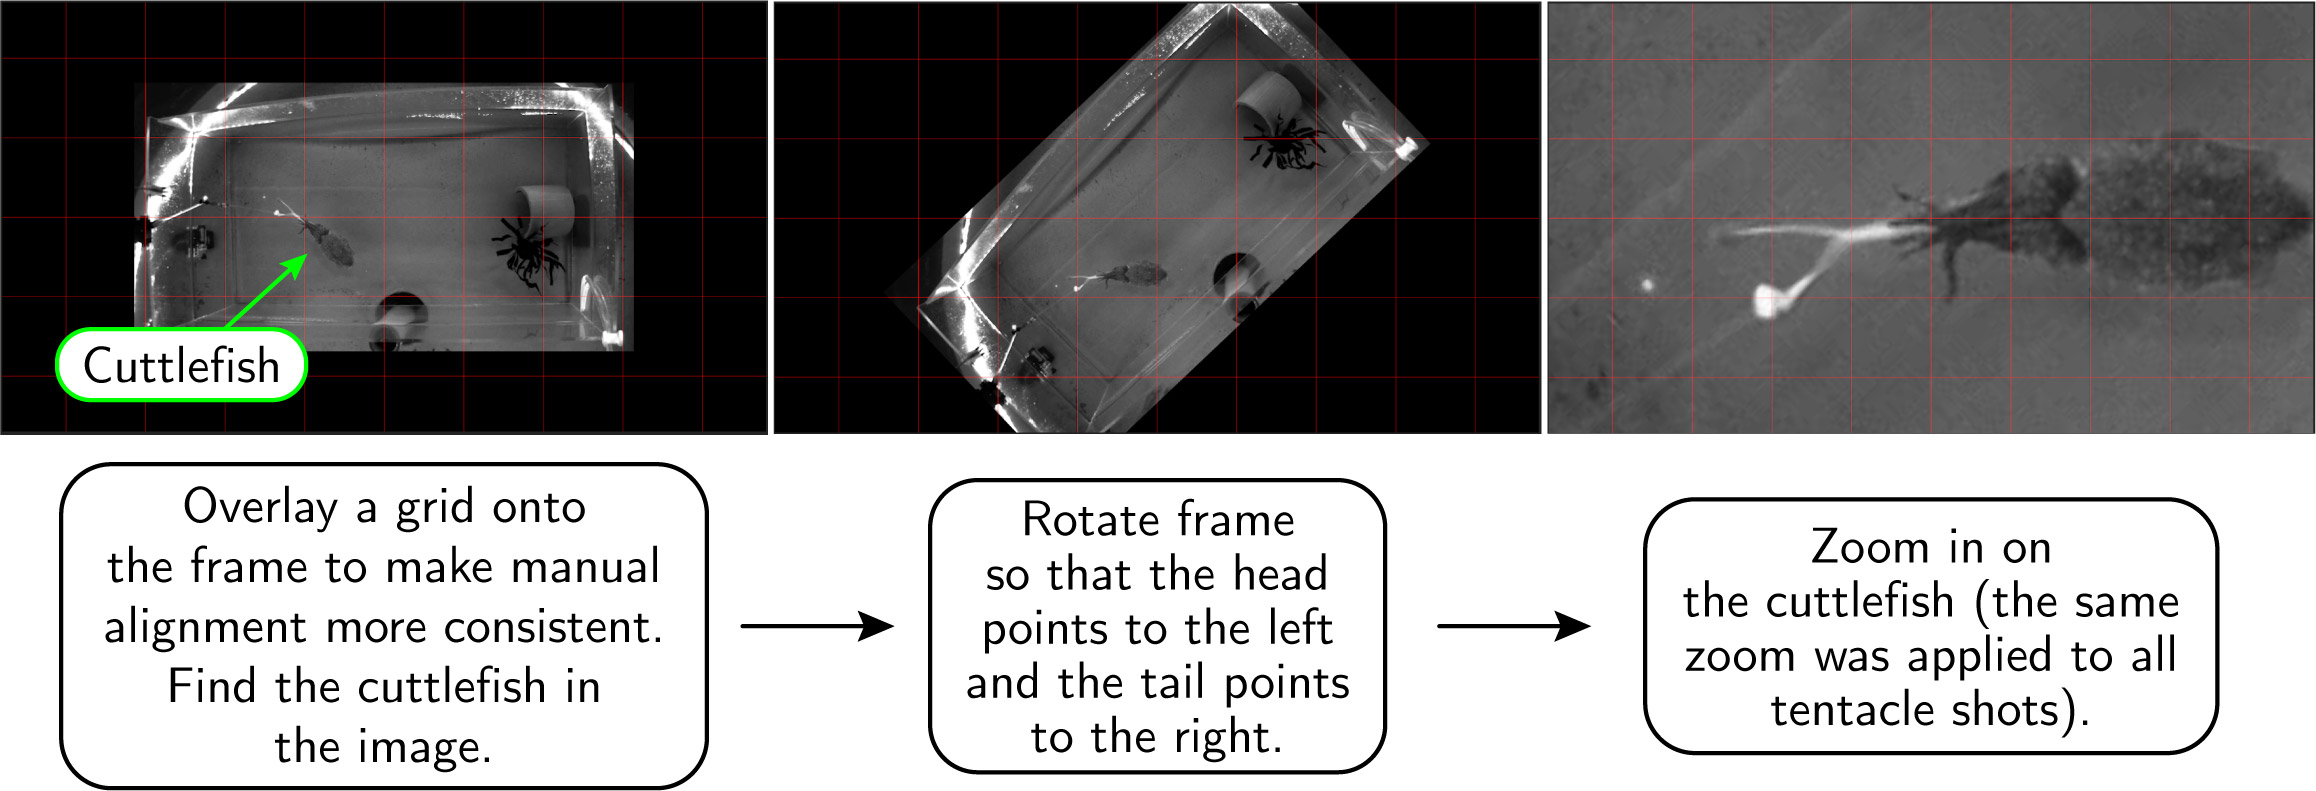
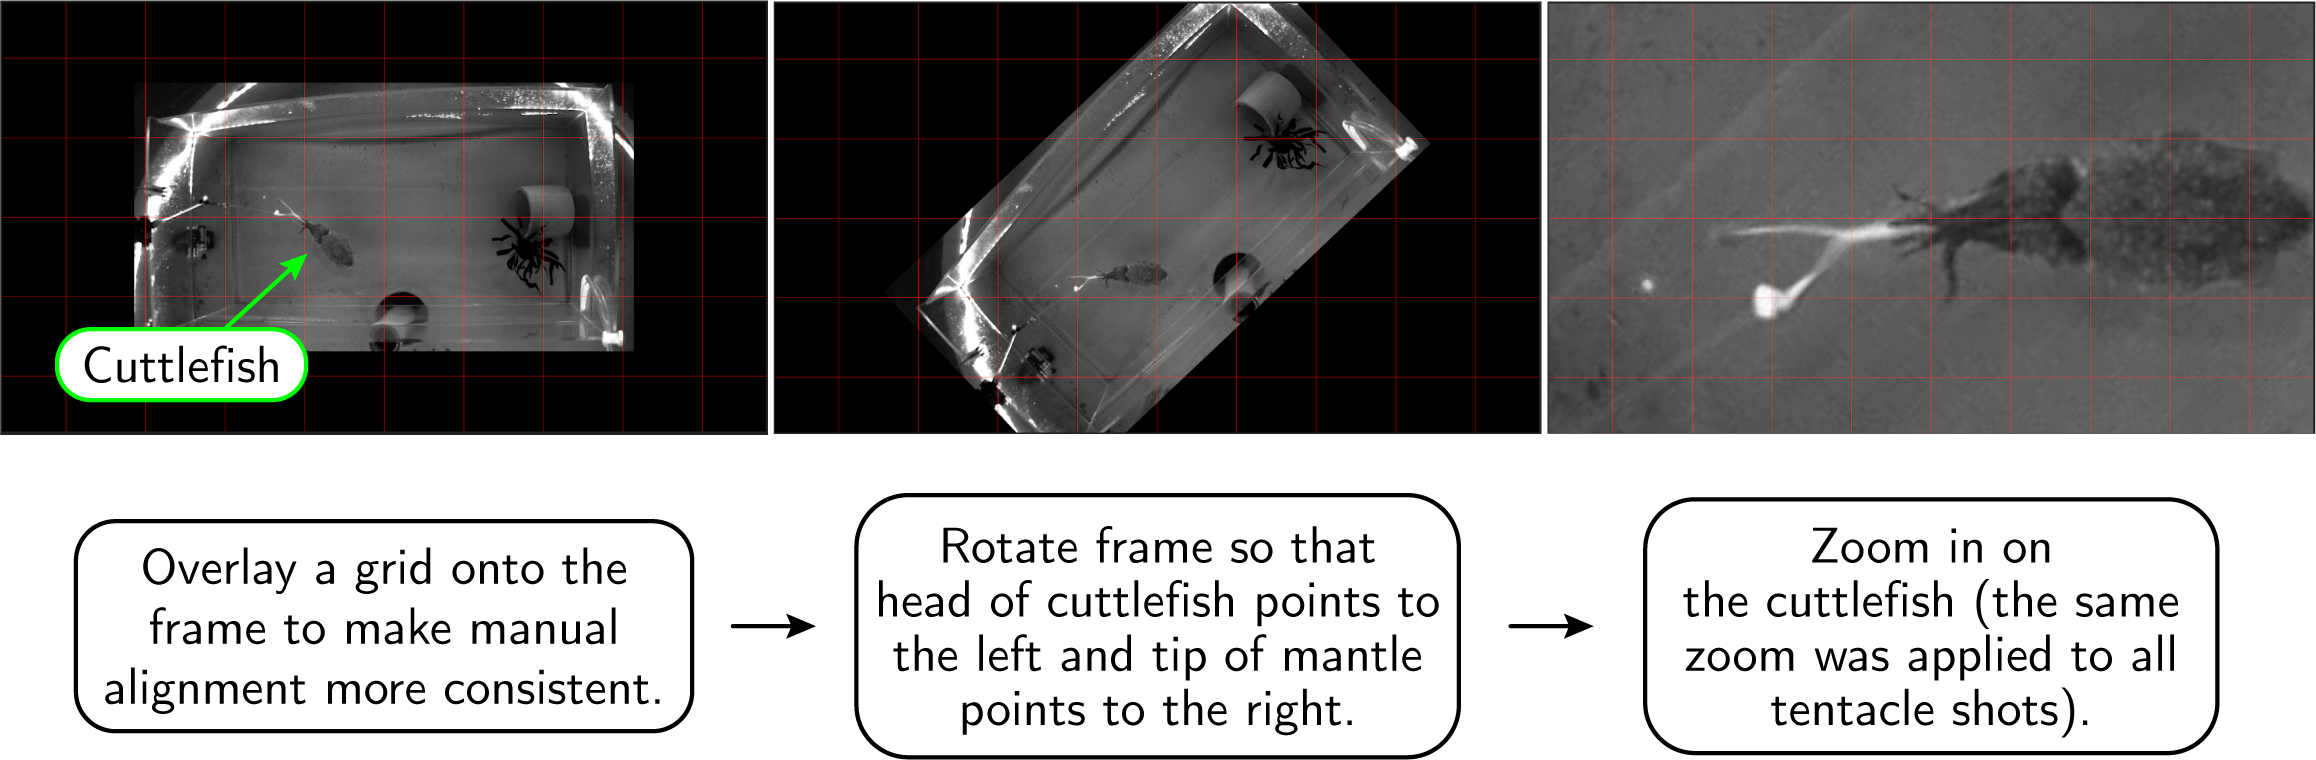
updated cuttle shuttle paper figs and supp materials

diff --git a/_open-lab-notebook/03-cuttlefish-hunting-behavior-figs-and-tables.md b/_open-lab-notebook/03-cuttlefish-hunting-behavior-figs-and-tables.md
@@ -20,15 +20,17 @@ Figures and tables for the paper "An experimental method for evoking and charact
 
 {% include figure image_path="/assets/images/openLabNotebook/CuttleShuttle/Paper_Diagram_CamouSignalingSequencesAssociatedWPreyCapture.jpg" alt="Camouflage and signaling sequences associated with prey capture by cuttlefish" caption="**Figure 1: Camouflage and signaling sequences associated with prey capture by cuttlefish.** Tentative framework for the sequence of body patterning during prey capture (see also [7]). This study focuses on the 3 seconds immediately before and after prey capture, circled in red in this diagram. *Illustration: Jennifer Deutscher.*" %}
 
-{% include figure image_path="/assets/images/openLabNotebook/CuttleShuttle/Paper_CuttleShuttle_Sketchup_BW.jpg" alt="Experimental tank setup" caption="**Figure 2: Experimental tank setup.** An acrylic box (43 x 43 x 81 cm, open top) with “robotic prey” (shrimp piece on a plastic skewer moved by an Arduino-controlled servo motor) on the left, perched on top of the experimental tank wall, and “home base” on the right, where cuttlefish can hide during acclimation. An overhead camera (not shown) provided a top-down, monochrome recording of the setup, while an underwater camera (also not shown) recorded from another angle in color." %}
+{% include figure image_path="/assets/images/openLabNotebook/CuttleShuttle/Paper_CuttleShuttle_Sketchup_BW.jpg" alt="Experimental tank setup" caption="**Figure 2: Experimental tank setup (not to scale).** An acrylic box (43 x 43 x 81 cm, open top) with “robotic prey” (shrimp piece on a plastic skewer moved by an Arduino-controlled servo motor) on the left, perched on top of the experimental tank wall, and “starting point shelter” on the right, where cuttlefish can hide during acclimation. An overhead camera (not shown) provided a top-down, monochrome recording of the setup, while an underwater camera (also not shown) recorded from another angle in color." %}
 
-{% include figure image_path="/assets/images/openLabNotebook/CuttleShuttle/Paper_CuttleShuttle_GranularityAnalysis_noTitle.jpg" alt="Example screenshot of mantle body pattern after filtering for analysis" caption="**Figure 3: Example screenshot of mantle body pattern after filtering for analysis.** A screenshot of the mantle body pattern (+1000ms after TGB) is shown after filtering through the 4 frequency bands used by Process Cuttle Python (modified from [21]) to analyze the TSP." %}
+{% include figure image_path="/assets/images/openLabNotebook/CuttleShuttle/Paper_CuttleShuttle_GranularityAnalysis_noTitle.jpg" alt="Example screenshot of mantle body pattern after filtering for analysis" caption="**Figure 3: Example screenshot of mantle body pattern after filtering for analysis.** A screenshot of the mantle body pattern (+1000ms after TGB) is shown after filtering through the 4 frequency bands used by _Process Cuttle Python_ (modified from [21]) to analyze the TSP." %}
 
 {% include figure image_path="/assets/images/openLabNotebook/CuttleShuttle/CuttleShuttle_CatchVMiss_Ethogram_noTitle.jpg" alt="Ethogram of body pattern changes during hunting behavior in captive Sepia officinalis" caption="**Figure 4: Ethogram of body pattern changes during hunting behavior in captive Sepia officinalis** (exemplary screenshots from overhead video). The top row shows body pattern changes (TSP) during a successful attack, while the bottom row shows body pattern changes during an unsuccessful attack. All images are frames from manually cropped and aligned video clips of tentacle shots made by the same animal. Red boxes indicate ROI described in Methods section 'Video analyses – characterizing the TSP'." %}
 
-{% include figure image_path="/assets/images/openLabNotebook/CuttleShuttle/Paper_CuttleShuttle_CatchVMiss_ShuffleTest_Granularity_noTitles.jpg" alt="Quantifying TSP dynamics with 'granularity' analysis" caption="**Figure 5:** Quantifying TSP dynamics with 'granularity' analysis. **A. Mean 'granularity' of body pattern during tentacle shots** in frequency band 2 (measured by Process Cuttle Python, modified from [21]), from 3 seconds before TGB to 3 seconds after TGB, normalized and pooled across all subjects. **B. A shuffle test (N=20,000 shuffles) of the difference of means (catch vs. miss)** show significance at 470ms after TGB. See Supp. Figs. for granularity analysis and shuffle test plots at all spatial frequencies analyzed in this study." %}
+{% include figure image_path="/assets/images/openLabNotebook/CuttleShuttle/Paper_CuttleShuttle_CatchVMiss_ShuffleTest_Granularity_noTitles.jpg" alt="Quantifying the dynamics of TSPs with "granularity" analysis, frequency band 2" caption="**Figure 5:** Quantifying the dynamics of TSPs with "granularity" analysis, frequency band 2. **A. Mean “granularity” of body pattern during tentacle shots** in frequency band 2 (measured by Process Cuttle Python, modified from [21]), from 3 seconds before TGB to 3 seconds after TGB, normalized and pooled across all subjects. **B. A shuffle test (N=20,000 shuffles) of the difference of means (catch vs. miss)** show significance at 470ms after TGB. See Figure S8 for granularity analysis and shuffle test plots at all spatial frequencies." %}
 
-{% include figure image_path="/assets/images/openLabNotebook/CuttleShuttle/Paper_CuttleShuttle_CatchVMiss_Schematic.jpg" alt="Schematic of body pattern changes during prey capture, shown in 4 stages" caption="**Figure 6:** Schematic of body pattern changes during prey capture, shown in 4 stages. **1. TGB minus 1000 milliseconds:** Animal is typically transitioning from the positioning phase to the seizure phase of the hunt (see [8]), and tentacles are just beginning to show from within the arms. **2. TGB (Tentacles Go Ballistic):** This is the moment when tentacles are ballistically released towards the prey or food item. **3. TGB plus 400 milliseconds (Tentacle Shot Pattern appears):** By 400 milliseconds after TGB, the 'granularity' of the deployed body pattern has increased significantly as compared to the 'granularity' of the body pattern deployed during baseline (TGB minus 3000 milliseconds to TGB minus 2000 milliseconds). **4a. TGB plus 1000 milliseconds, Catch (TSP persists):** When the hunt is successful, the 'granularity' of the deployed body pattern remains high. **4b. TGB plus 1000 milliseconds, Miss (TSP disappears):** When the hunt is unsuccessful, the 'granularity' of the deployed body pattern returns to baseline. *Illustration: Danbee Kim.*" %}
+{% include figure image_path="/assets/images/openLabNotebook/CuttleShuttle/Paper_CuttleShuttle_CatchVMiss_Schematic.jpg" alt="Schematic of body pattern changes during prey capture, shown in 4 stages" caption="**Figure 6:** Schematic of body pattern changes during prey capture, shown in 4 stages. **1. TGB minus 1000 milliseconds:** Animal is typically transitioning from the positioning phase to the seizure phase of the hunt (see [8]), and tentacles are just beginning to show from within the arms. **2. TGB (Tentacles Go Ballistic):** This is the moment when tentacles are ballistically released towards the prey or food item. **3. TGB plus 400 milliseconds (Tentacle Shot Patterns appear):** By 400 milliseconds after TGB, the “granularity” of the deployed body pattern has increased significantly as compared to the “granularity” of the body pattern deployed during baseline (TGB minus 3000 milliseconds to TGB minus 2000 milliseconds). **4a. TGB plus 1000 milliseconds, Catch (TSPs persist):** When the hunt is successful, the “granularity” of the deployed body pattern remains high. See Fig. 7 for all examples of TSPs in the dataset. **4b. TGB plus 1000 milliseconds, Miss (TSPs disappear):** When the hunt is unsuccessful, the “granularity” of the deployed body pattern returns to baseline. *Illustration: Danbee Kim.*" %}
+
+{% include figure image_path="/assets/images/openLabNotebook/CuttleShuttle/frame194_all.jpg" alt="" caption="**Figure 7: Examples of Tentacle Shot Patterns.** This composite image shows screenshots of all tentacle shots by all animals at 233.5 milliseconds after TGB, the timepoint when TSPs are most strongly displayed, regardless of whether the animal caught or missed the prey." %}
 
 ## Tables
 

diff --git a/_open-lab-notebook/03-cuttlefish-hunting-behavior-supp-materials.md b/_open-lab-notebook/03-cuttlefish-hunting-behavior-supp-materials.md
@@ -16,11 +16,31 @@ header:
 
 Supplemental materials included in the paper "An experimental method for evoking and characterizing dynamic color patterning of cuttlefish during prey capture" (in prep):
 
+## Supplemental Text
+
+Movement phases of the robotic prey:
+
+- Natural: Skewer arm rotates clockwise into the water until it is fully submerged and approximately perpendicular to the surface of the water ("90 deg down"), pauses, then "wiggles" 3 times. A single "wiggle" consists of moving 10 deg clockwise (CW), then 10 deg counter-clockwise (CCW), then 10 deg CW again; or 10 deg CCW, then 10 deg CW, then 10 deg CCW again. In between each wiggle, the skewer arm paused for 3 seconds. After 3 wiggles, the skewer arm is moved back out of the water to the "start position."
+- Smooth: Skewer arm enters the water and travels smoothly through one full rotation back up to the start position. Each food offering alternates between CW and CCW rotations.
+- Predictable: Skewer arm begins to enter the water along a smooth CW or CCW rotation. If the skewer reaches "90 deg down" and pauses, the skewer exits the water back in the direction from which it came. If the skewer enters the water and does not pause, the skewer continues in the same direction to exit the water. The "robotic prey" was designed to randomly choose whether or not to pause during each trial of this stage.
+
 ## Supplemental Figures
 
-{% include figure image_path="/assets/images/openLabNotebook/CuttleShuttle/PaperFig_ExpTank.jpg" alt="Supplemental Figure 1: The Experimental Tank" caption="**Fig. S1: The Experimental tank, showing the hunting box, with hardware setup controlling the robotic prey, inside the circular holding tank lined with LED lighting, with overhead Point Grey FlyCap2 camera.** Photo by D. Kim; figure generated in Adobe Illustrator by D. Kim." %}
+{% include figure image_path="/assets/images/openLabNotebook/CuttleShuttle/PaperFig_ExpTank.jpg" alt="Figure S1: The experimental tank." caption="**Figure S1: The experimental tank.** The hunting box, with hardware setup controlling the robotic prey, inside the circular holding tank with LED lighting inside the holding tank and overhead Point Grey FlyCap2 camera." %}
 
-{% include figure image_path="/assets/images/openLabNotebook/CuttleShuttle/PaperFig_HuntingBox.jpg" alt="Supplemental Figure 2: Overhead view of the hunting box." caption="**Fig. S2: Overhead view of hunting box inside the experimental tank.** This image is a screenshot from the session videos recorded by the overhead PointGrey FlyCap2 camera. Figure generated in Adobe Illustrator by D. Kim." %}
+{% include figure image_path="/assets/images/openLabNotebook/CuttleShuttle/PaperFig_HuntingBox.jpg" alt="Figure S2: Overhead view of hunting box inside the holding tank." caption="**Figure S2: Overhead view of hunting box inside the holding tank.** This image is a screenshot from a session video recorded by the overhead Point Grey FlyCap2 camera." %}
+
+{% include figure image_path="/assets/images/openLabNotebook/CuttleShuttle/CuttleShuttle_AnalysisWorkflow.jpg" alt="Figure S3: TGB Videos, spatial alignment" caption="**Figure S3: TGB Videos, spatial alignment.** Example of the process of cropping and aligning a single frame of a Cuttle Shuttle hunting session video recording.  Manual alignment of all 'TGB videos' was done using Apple software Final Cut Pro and Adobe Premiere Pro by D. Kim." %}
+
+{% include figure image_path="/assets/images/openLabNotebook/CuttleShuttle/CuttleShuttle_TentacleShotsTemporalAlignment.jpg" alt="Figure S4: TGB Videos, temporal alignment" caption="**Figure S4: TGB Videos, temporal alignment.** Example of how the TGB videos were aligned temporally on the frame in which 'tentacles go ballistic' (TGB)." %}
+
+{% include figure image_path="/assets/images/openLabNotebook/CuttleShuttle/Prob_MomentsOfInterestSeq_TentacleShotsBeforeCatch_allAnimals.jpg" alt="Figure S5: Number of tentacle shots before a catch for all animals" caption="**Figure S5: Number of tentacle shots before a catch for all animals.** Summary plot showing the number of tentacle shots before a catch was successful; success frequency shown for all animals. Tentacle shots were annotated during data collection via Bonsai [15] and verified manually by re-watching overhead videos." %}
+
+{% include figure image_path="/assets/images/openLabNotebook/CuttleShuttle/CuttleShuttle_firstExitFromBaseline.jpg" alt="Figure S6: Descriptive plots showing “first exits” from baseline mean ± 3σ" caption="**Figure S6: Descriptive plots showing “first exits” from baseline mean ± 3σ.** These plots visualize when the 'granularity' of the mantle pattern during individual tentacle shots deviated significantly (>3 standard deviations) from the mean of the baseline period (as measured by _Process Cuttle Python_, modified from [21])." %}
+
+{% include figure image_path="/assets/images/openLabNotebook/CuttleShuttle/CuttleShuttle_TSPonset_boxplots.jpg" alt="Figure S7: Boxplots showing distribution and mean onset of TSPs" caption="**Figure S7: Boxplots showing distribution and mean onset of TSPs.** Visualization of data from Table 2." %}
+
+{% include figure image_path="/assets/images/openLabNotebook/CuttleShuttle/Paper_CuttleShuttle_SuppFig_CatchVMiss_ShuffleTest_Granularity_allFreqs.jpg" alt="Figure S8: Quantifying dynamics of TSPs with 'granularity' analysis, all frequency bands" caption="**Figure S8: Quantifying dynamics of TSPs with 'granularity' analysis, all frequency bands.** The left column shows the changes in mean 'granularity' of body pattern during tentacle shots (measured by Process Cuttle Python, modified from [21], in 4 different spatial frequency bands), from 3 seconds before TGB to 3 seconds after TGB, normalized and pooled across all subjects. The right column shows shuffle tests (N=20,000 shuffles) of the difference of means (catch vs. miss) in each frequency band, and a vertical dashed yellow line indicates when the difference becomes significant (p<0.05)." %}
 
 ## Experimental Protocol
 

diff --git a/_open-lab-notebook/03-cuttlefish-hunting-behavior.md b/_open-lab-notebook/03-cuttlefish-hunting-behavior.md
@@ -28,9 +28,9 @@ The following write-up of the project is currently being distilled into an acade
 
 ### Abstract
 
-Cuttlefish are active carnivores that possess a wide repertoire of body patterns that can be changed instantly for many types of camouflage and communication. The forms and functions of many body patterns are well known from ethological studies in the field and laboratory; yet one aspect has not been reported in detail: the rapid and brief change in body coloration (“Tentacle Shot Pattern,” or TSP) that always occurs with the ejection of two ballistic tentacles to strike live moving prey (“Tentacles Go Ballistic,” or TGB, moment). We designed and tested a mechanical device that presented prey in a controlled manner, taking advantage of a key stimulus for feeding: motion of the prey. High-speed video recordings show a rapid transition into TSP starting 114 milliseconds before TGB (N=114). TSP is then suppressed as early as 470-500 milliseconds after TGB (p<0.05) in unsuccessful hunts, while persisting for at least 3 seconds after TGB in successful hunts. A granularity analysis revealed significant differences in the large-scale high contrast body patterning present in TSP compared to the camouflage body pattern deployed beforehand. TSP is thought to be a form of secondary defense called deimatic displaying, meant to briefly startle predators while cuttlefish are distracted by striking prey. The main deimatic patterns deployed by cuttlefish during this study are best characterized as Acute Conflict Mottle and Acute Disruptive Pattern. The data and methodology presented here open opportunities for quantifying the rapid neural responses in this visual sensorimotor set of behaviors.
+Cuttlefish are active carnivores that possess a wide repertoire of body patterns that can be changed within milliseconds for many types of camouflage and communication. The forms and functions of many body patterns are well known from ethological studies in the field and laboratory. Yet one aspect has not been reported in detail: the category of rapid, brief and high-contrast changes in body coloration (“Tentacle Shot Patterns,” or TSPs) that always occur with the ejection of two ballistic tentacles to strike live moving prey (“Tentacles Go Ballistic,” or TGB, moment). We designed and tested a mechanical device that presented prey in a controlled manner, taking advantage of a key stimulus for feeding: motion of the prey. High-speed video recordings show a rapid transition into TSPs starting 114 milliseconds before TGB (N=114). TSPs are then suppressed as early as 470-500 milliseconds after TGB (p<0.05) in unsuccessful hunts, while persisting for at least 3 seconds after TGB in successful hunts. A granularity analysis revealed significant differences in the large-scale high-contrast body patterning present in TSPs compared to the camouflage body pattern deployed beforehand. TSPs best fit the category of secondary defense called deimatic displaying, meant to briefly startle predators and interrupt their attack sequence while cuttlefish are distracted by striking prey. We characterize TSPs as a pattern category for which the main distinguishing feature is a high-contrast signaling pattern with aspects of Acute Conflict Mottle or Acute Disruptive Pattern. The data and methodology presented here open opportunities for quantifying the rapid neural responses in this visual sensorimotor set of behaviors.
 
-Keywords: behavior, attack, predation, secondary defense, Cephalopod, body patterning, _Sepia officinalis_
+Keywords: behavior, attack, predation, secondary defense, Cephalopod, body patterning, _Sepia officinalis_, deimatic
 
 ### Graphical Abstract
 
